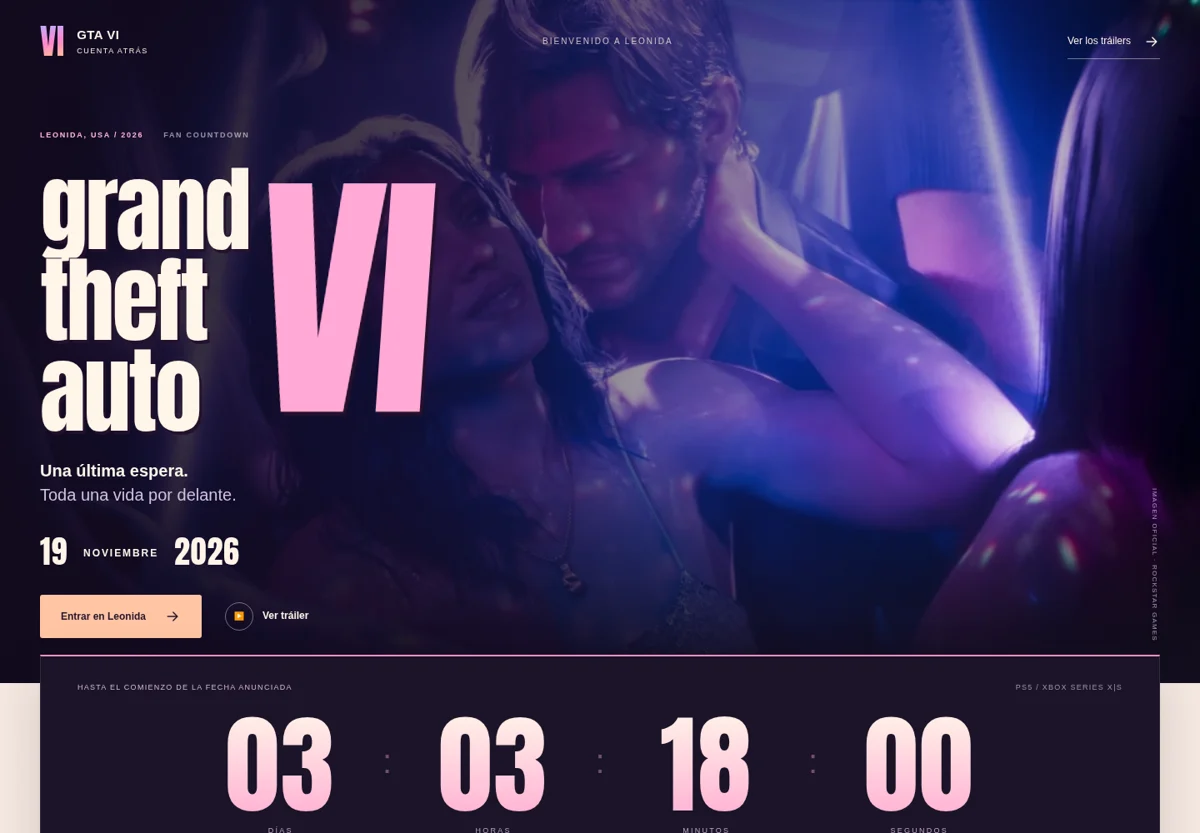
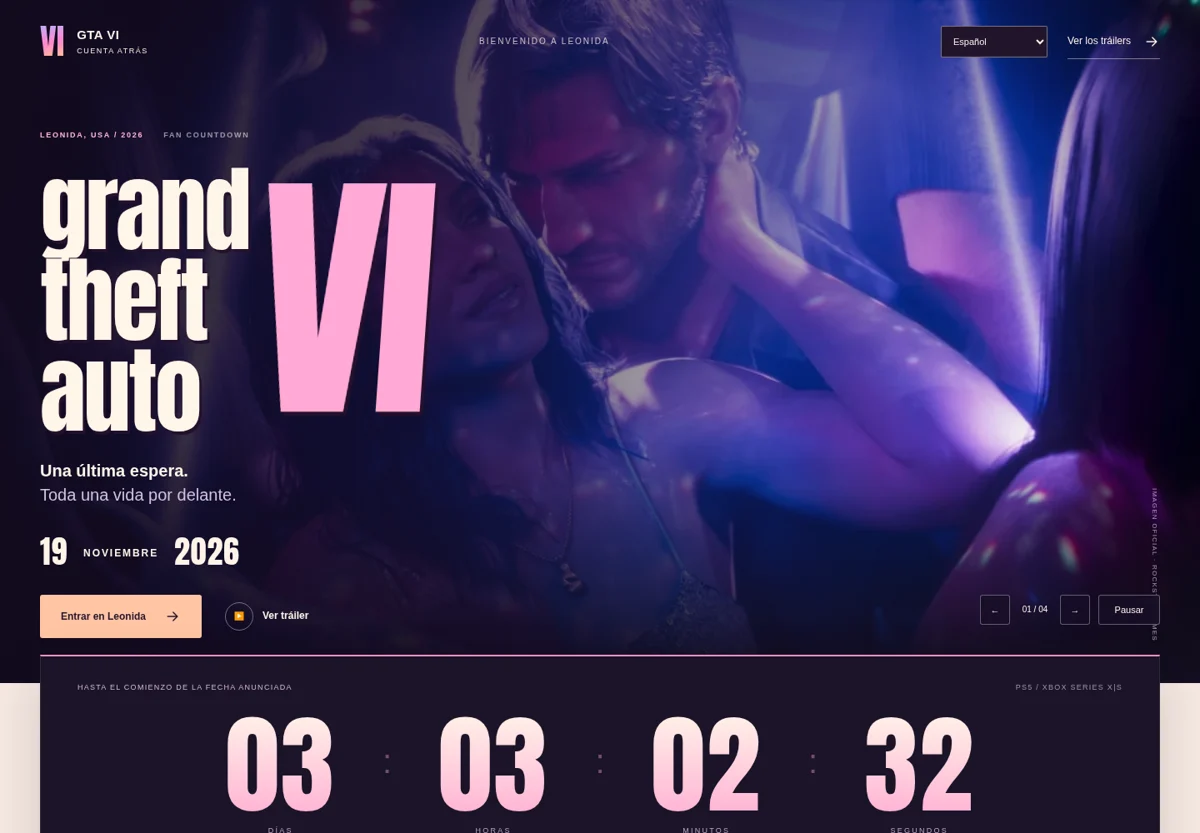
Refresh GTA countdown previews and multilingual description

diff --git a/index.html b/index.html
@@ -52,7 +52,7 @@
         <div class="featured-content"><p class="eyebrow"><time datetime="2026">2026</time> · SEGUIMIENTO DE ENVÍOS</p><h3 id="tramo-titulo">Tus paquetes,<br>en cada tramo.</h3><p>Tramo reúne tus envíos en un solo lugar. Consulta rápida, un espacio personal y una demo para explorar cada paso del recorrido.</p><ul class="tags" aria-label="Funciones de Tramo"><li>Seguimiento</li><li>Paquetes</li><li>Demo interactiva</li></ul><a class="button" href="https://tramo.nmclabs.dev/" target="_blank" rel="noopener noreferrer">Descubrir Tramo <span aria-hidden="true"><svg class="icon-arrow" viewBox="0 0 24 24" fill="none" aria-hidden="true"><path d="m6 18 12-12M6 6h12v12" stroke="currentColor" stroke-width="1.7" stroke-linecap="round" stroke-linejoin="round"/></svg></span></a><details class="project-context"><summary>El contexto del proyecto</summary><div><p><strong>La idea.</strong> Seguir paquetes de distintas compañías desde un único lugar.</p><p><strong>Mi trabajo.</strong> He desarrollado la consulta rápida, un panel personal y una demo con envíos ficticios para explorar la experiencia sin registro.</p></div></details></div>
         <a class="tramo-art" href="https://tramo.nmclabs.dev/" aria-label="Descubrir Tramo" target="_blank" rel="noopener noreferrer"><span class="tramo-art-top">DE UN LUGAR A OTRO. HASTA TI.</span><span class="tramo-wordmark">tramo<span>.</span></span><svg viewBox="0 0 420 100" fill="none" aria-hidden="true"><path d="M30 75C90 75 85 25 160 25S250 75 300 50 340 25 390 25" stroke="currentColor" stroke-width="2" stroke-dasharray="6 6"/><circle cx="30" cy="75" r="6" fill="currentColor"/><circle cx="160" cy="25" r="6" fill="currentColor"/><circle cx="300" cy="50" r="6" fill="currentColor"/><circle cx="390" cy="25" r="10" fill="#df6035"/></svg><span class="tramo-art-bottom">Menos pestañas. Más tranquilidad.<span aria-hidden="true"><svg class="icon-arrow" viewBox="0 0 24 24" fill="none" aria-hidden="true"><path d="m6 18 12-12M6 6h12v12" stroke="currentColor" stroke-width="1.7" stroke-linecap="round" stroke-linejoin="round"/></svg></span></span></a>
       </article>
-<section class="current-tools" aria-labelledby="current-tools-title"><header class="current-tools-heading"><div><p class="eyebrow">CREADAS PARA EL MOMENTO</p><h3 id="current-tools-title">Herramientas de actualidad.</h3></div><p>Guías interactivas, cuentas atrás y simulación.<br>Herramientas con sus fuentes enlazadas.</p></header><div class="current-tools-grid"><article class="current-tool"><a class="current-tool-image" href="https://gtacountdown.nmclabs.dev/" target="_blank" rel="noopener noreferrer" aria-label="Abrir GTA VI · Cuenta atrás en una pestaña nueva"><img src="proyectos/gtacountdown-card.webp" width="1200" height="833" alt="GTA VI: nueva portada con Jason y Lucia y cuenta atrás" loading="lazy"></a><div class="current-tool-content"><p class="eyebrow"><time datetime="2026">2026</time> · CUENTA ATRÁS</p><div class="current-tool-heading"><h4>GTA VI · Cuenta atrás</h4><span>19 de noviembre</span></div><p>Explora Leonida y sus personajes, guarda imágenes, mira los vídeos oficiales y prepara la llegada de GTA VI.</p><a class="current-tool-link" href="https://gtacountdown.nmclabs.dev/" target="_blank" rel="noopener noreferrer">Ver la cuenta atrás <svg class="icon-arrow" viewBox="0 0 24 24" fill="none" aria-hidden="true"><path d="m6 18 12-12M6 6h12v12" stroke="currentColor" stroke-width="1.7" stroke-linecap="round" stroke-linejoin="round"/></svg><span class="sr-only"> (pestaña nueva)</span></a></div></article><article class="current-tool"><a class="current-tool-image" href="https://29n.nmclabs.dev/" target="_blank" rel="noopener noreferrer" aria-label="Abrir 29N en una pestaña nueva"><img src="proyectos/29n-card.webp" width="1200" height="833" alt="29N: laboratorio D’Hondt con votos, barrera electoral y reparto paso a paso" loading="lazy"></a><div class="current-tool-content"><p class="eyebrow"><time datetime="2026">2026</time> · CALENDARIO ELECTORAL</p><div class="current-tool-heading"><h4>29N</h4><span>29 de noviembre</span></div><p>Pactómetro, referencia del 23J y laboratorio D’Hondt paso a paso. Compara escenarios y aprende cómo se reparten los escaños.</p><a class="current-tool-link" href="https://29n.nmclabs.dev/" target="_blank" rel="noopener noreferrer">Explorar el 29N <svg class="icon-arrow" viewBox="0 0 24 24" fill="none" aria-hidden="true"><path d="m6 18 12-12M6 6h12v12" stroke="currentColor" stroke-width="1.7" stroke-linecap="round" stroke-linejoin="round"/></svg><span class="sr-only"> (pestaña nueva)</span></a></div></article></div></section>
+<section class="current-tools" aria-labelledby="current-tools-title"><header class="current-tools-heading"><div><p class="eyebrow">CREADAS PARA EL MOMENTO</p><h3 id="current-tools-title">Herramientas de actualidad.</h3></div><p>Guías interactivas, cuentas atrás y simulación.<br>Herramientas con sus fuentes enlazadas.</p></header><div class="current-tools-grid"><article class="current-tool"><a class="current-tool-image" href="https://gtacountdown.nmclabs.dev/" target="_blank" rel="noopener noreferrer" aria-label="Abrir GTA VI · Cuenta atrás en una pestaña nueva"><img src="proyectos/gtacountdown-card.webp" width="1200" height="833" alt="GTA VI: nueva portada con Jason y Lucia y cuenta atrás" loading="lazy"></a><div class="current-tool-content"><p class="eyebrow"><time datetime="2026">2026</time> · CUENTA ATRÁS</p><div class="current-tool-heading"><h4>GTA VI · Cuenta atrás</h4><span>19 de noviembre</span></div><p>Explora Leonida, guarda imágenes y prepara la llegada de GTA VI. Portada animada y seis idiomas para compartir la espera.</p><a class="current-tool-link" href="https://gtacountdown.nmclabs.dev/" target="_blank" rel="noopener noreferrer">Ver la cuenta atrás <svg class="icon-arrow" viewBox="0 0 24 24" fill="none" aria-hidden="true"><path d="m6 18 12-12M6 6h12v12" stroke="currentColor" stroke-width="1.7" stroke-linecap="round" stroke-linejoin="round"/></svg><span class="sr-only"> (pestaña nueva)</span></a></div></article><article class="current-tool"><a class="current-tool-image" href="https://29n.nmclabs.dev/" target="_blank" rel="noopener noreferrer" aria-label="Abrir 29N en una pestaña nueva"><img src="proyectos/29n-card.webp" width="1200" height="833" alt="29N: laboratorio D’Hondt con votos, barrera electoral y reparto paso a paso" loading="lazy"></a><div class="current-tool-content"><p class="eyebrow"><time datetime="2026">2026</time> · CALENDARIO ELECTORAL</p><div class="current-tool-heading"><h4>29N</h4><span>29 de noviembre</span></div><p>Pactómetro, referencia del 23J y laboratorio D’Hondt paso a paso. Compara escenarios y aprende cómo se reparten los escaños.</p><a class="current-tool-link" href="https://29n.nmclabs.dev/" target="_blank" rel="noopener noreferrer">Explorar el 29N <svg class="icon-arrow" viewBox="0 0 24 24" fill="none" aria-hidden="true"><path d="m6 18 12-12M6 6h12v12" stroke="currentColor" stroke-width="1.7" stroke-linecap="round" stroke-linejoin="round"/></svg><span class="sr-only"> (pestaña nueva)</span></a></div></article></div></section>
       <div class="archive-heading"><h3>Donde empezó todo</h3><p>Mis primeras webs, con su año de origen y nuevas formas de revisitarlas.</p></div>
       <div class="project-grid">
 <article class="project-lineage" aria-label="Tinyspace: original y rediseño del mismo proyecto"><header class="lineage-heading"><div><h3>Tinyspace</h3><p>Del primer catálogo de mobiliario a una tienda que permite probar sus muebles a escala.</p></div><span class="lineage-years"><time datetime="2022">2022</time><span aria-hidden="true">→</span><time datetime="2026">2026</time></span></header><div class="lineage-versions"><section class="lineage-original"><p class="version-badge">EL ORIGINAL · 2022</p><a class="lineage-image" href="https://tinyspace.nmclabs.dev/" target="_blank" rel="noopener noreferrer" aria-label="Visitar Tinyspace original (pestaña nueva)"><img src="proyectos/tinyspace-original-card.webp" width="1440" height="1000" alt="Tinyspace: versión original" loading="lazy"></a><h4>El primer catálogo.</h4><p>Un concepto de mueblería para practicar HTML, CSS, imágenes y composición.</p><a class="lineage-action" href="https://tinyspace.nmclabs.dev/" target="_blank" rel="noopener noreferrer">Visitar original <svg class="icon-arrow" viewBox="0 0 24 24" fill="none" aria-hidden="true"><path d="m6 18 12-12M6 6h12v12" stroke="currentColor" stroke-width="1.7" stroke-linecap="round" stroke-linejoin="round"/></svg></a></section><section class="lineage-new"><p class="version-badge">EL REDISEÑO · 2026 · NMC LABS</p><a class="lineage-image" href="https://tiny.nmclabs.dev/" target="_blank" rel="noopener noreferrer" aria-label="Explorar Tinyspace rediseñado (pestaña nueva)"><img src="proyectos/tinyspace-redesign-card.webp" width="1440" height="1000" alt="Tinyspace: nueva versión de NMC Labs" loading="lazy"></a><h4>Tienda y plano a medida.</h4><p>Treinta productos, una habitación editable y propuestas para empresas.</p><a class="lineage-action primary" href="https://tiny.nmclabs.dev/" target="_blank" rel="noopener noreferrer">Explorar rediseño <svg class="icon-arrow" viewBox="0 0 24 24" fill="none" aria-hidden="true"><path d="m6 18 12-12M6 6h12v12" stroke="currentColor" stroke-width="1.7" stroke-linecap="round" stroke-linejoin="round"/></svg></a></section></div><footer class="lineage-footer"><span>Un mismo proyecto. Dos etapas.</span><a href="proyectos/tinyspace.html">Ver su historia y evolución <span aria-hidden="true">→</span></a></footer></article>
